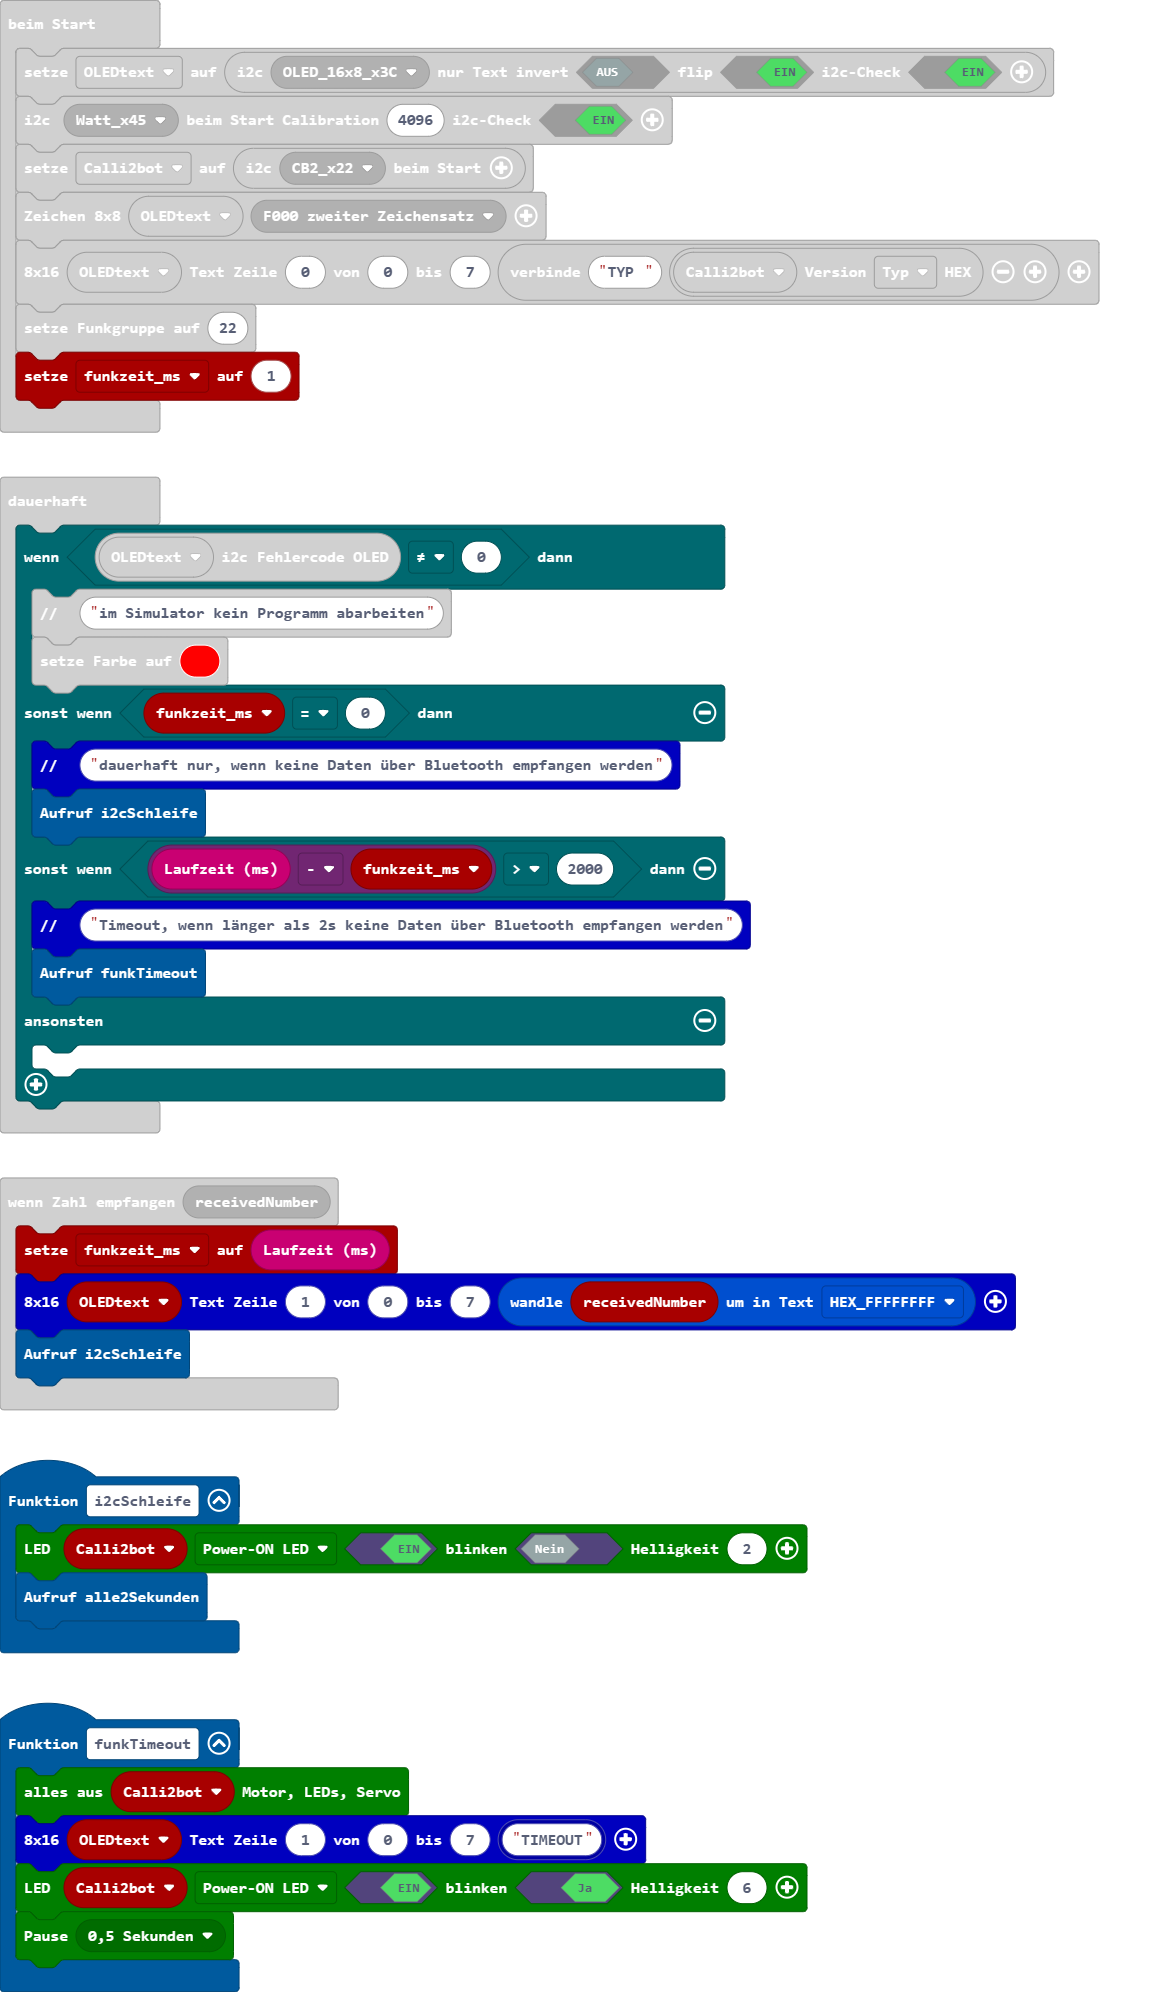
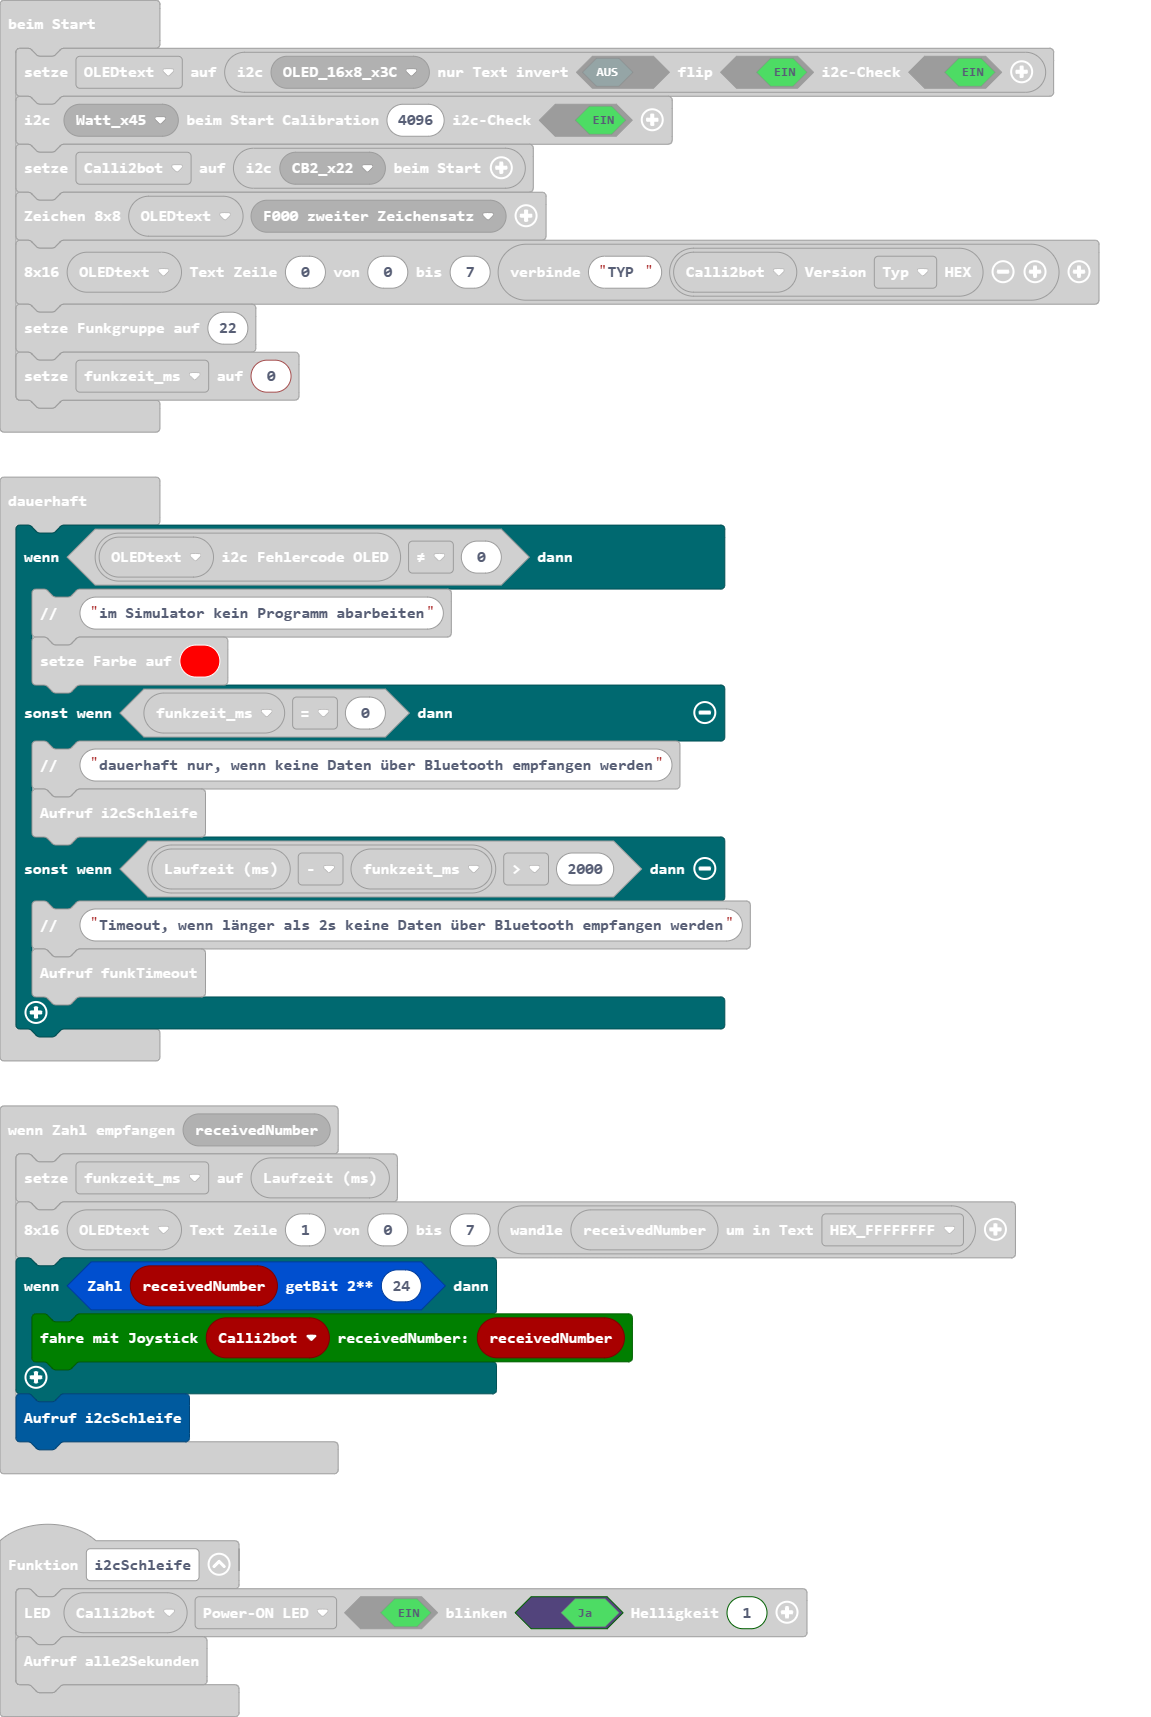
Aktualisiere main.blocks, main.ts

diff --git a/main.ts b/main.ts
@@ -1,6 +1,9 @@
 radio.onReceivedNumber(function (receivedNumber) {
     funkzeit_ms = input.runningTime()
     OLEDtext.writeText8x16(1, 0, 7, bit.formatNumber(receivedNumber, bit.eLength.HEX_FFFFFFFF))
+    if (bit.getBit(receivedNumber, 24)) {
+        Calli2bot.fahreJoystick(receivedNumber)
+    }
     i2cSchleife()
 })
 function funkTimeout () {
@@ -18,7 +21,7 @@ input.onButtonEvent(Button.B, input.buttonEventClick(), function () {
     }
 })
 function i2cSchleife () {
-    Calli2bot.setLed1(calli2bot.eLed.poweron, true, false, 2)
+    Calli2bot.setLed1(calli2bot.eLed.poweron, true, true, 1)
     alle2Sekunden()
 }
 function alle2Sekunden () {
@@ -39,7 +42,7 @@ Calli2bot = calli2bot.beimStart(calli2bot.calli2bot_eADDR(calli2bot.eADDR.CB2_x2
 OLEDtext.set_eeprom_8x8(oled.oled_eEEPROM_Startadresse(oled.eEEPROM_Startadresse.F000))
 OLEDtext.writeText8x16(0, 0, 7, "TYP " + Calli2bot.i2cReadFW_VERSION(calli2bot.eVersion.Typ))
 radio.setGroup(22)
-funkzeit_ms = 1
+funkzeit_ms = 0
 basic.forever(function () {
     if (OLEDtext.geti2cError_OLED() != 0) {
         oled.comment("im Simulator kein Programm abarbeiten")
@@ -50,7 +53,5 @@ basic.forever(function () {
     } else if (input.runningTime() - funkzeit_ms > 2000) {
         oled.comment("Timeout, wenn länger als 2s keine Daten über Bluetooth empfangen werden")
         funkTimeout()
-    } else {
-    	
     }
 })
